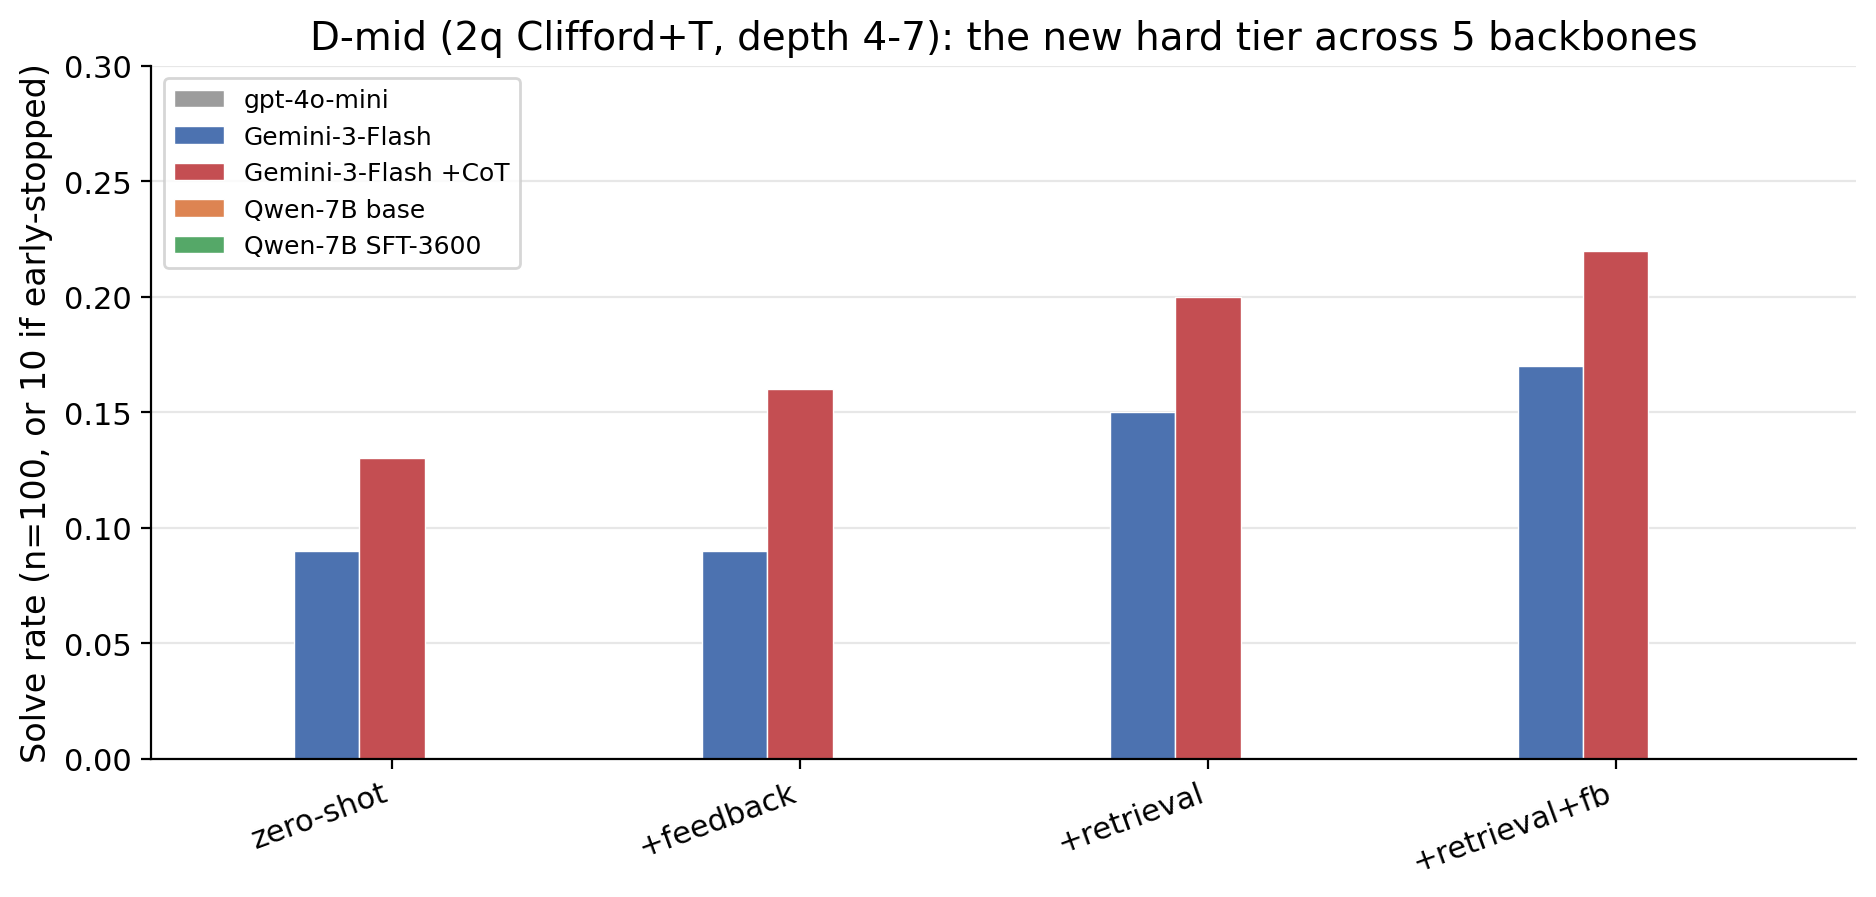
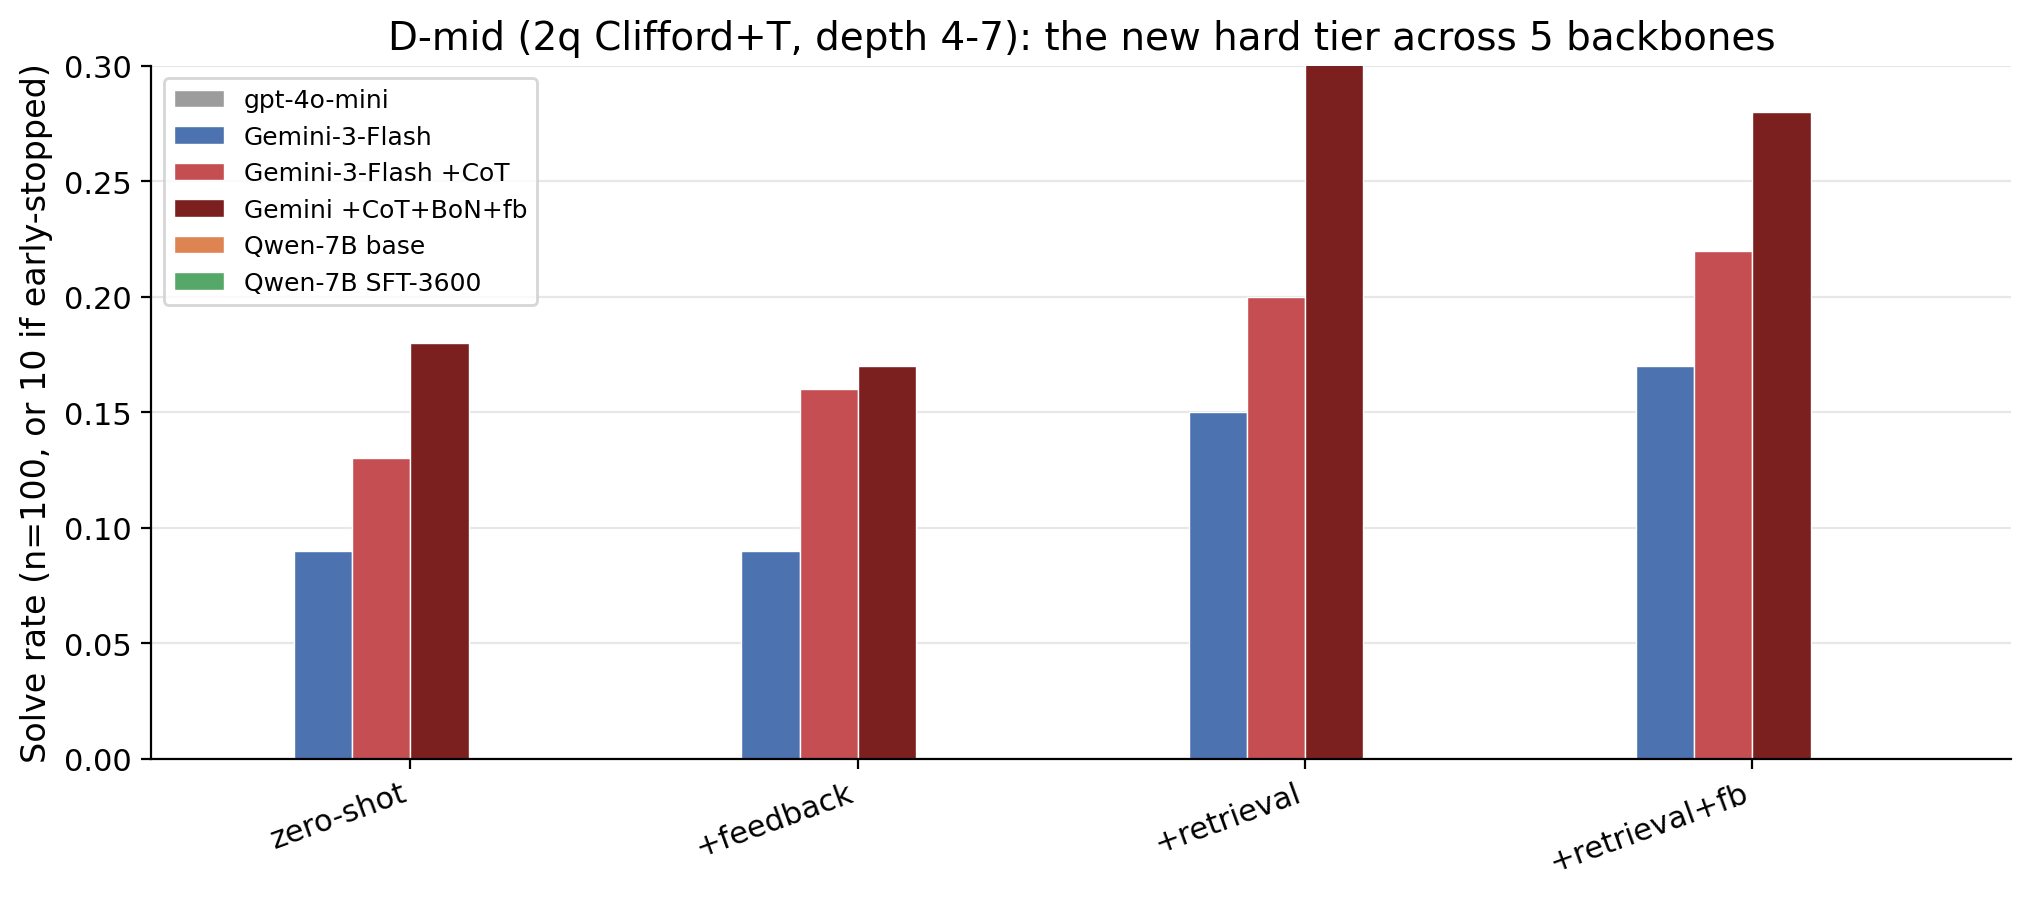
Final consolidation: CoT/Best-of-N results + 9 figures + paper update
CoT prompting on Gemini-3-Flash is the largest single lever measured:
- D-lite zero-shot: 28 -> 47 (+19)
- D-lite struct+fb: 65 -> 71 (+6, new high)
- D-mid struct+fb: 17 -> 22 (+5, new high)
- D-mid with CoT + Best-of-5 + feedback stack: struct_only 32/100, struct+fb 28
- D-lite zero-shot with CoT + Best-of-5: 58/100

The three orthogonal levers (retrieval, feedback, CoT/Best-of-N) stack:
zero-shot 28% -> +fb+retr 65% -> +CoT 71% on D-lite;
zero-shot 9% -> +Best-of-N+CoT+retr 32% on D-mid (4x).

Updates:
- paper/paper.tex: new Experiment 3 section (CoT + Best-of-N tables);
  new F4 finding (CoT dominant single lever, stacks).
- README: new TL;DR rows for CoT and Best-of-N.
- 9 slide-quality figures regenerated; fig9 now shows D-lite AND D-mid
  cumulative stacks side by side.
- scripts/make_slide_plots.py: fig9 takes both tiers; fig8 adds the
  +CoT+BoN+fb backbone column.

diff --git a/scripts/make_slide_plots.py b/scripts/make_slide_plots.py
@@ -366,7 +366,7 @@ def fig6_capability_ladder():
 def fig7_cot_vs_default():
     default_dlite = load_summary("confirm100_gemini3flash_*")
     default_dmid = load_summary("confirm100_gemini_dmid_v2_*")
-    cot = load_summary("gemini_cot_*")
+    cot = load_summary("gemini_cot_20*")  # exclude gemini_cot_botn_ / gemini_cot_full_dmid_
     if cot is None:
         print("skip fig7 (CoT data missing)")
         return
@@ -419,7 +419,8 @@ def fig8_dmid_panel():
     runs = [
         ("gpt-4o-mini", "confirm100_gpt4omini_dmid_*"),
         ("Gemini-3-Flash", "confirm100_gemini_dmid_v2_*"),
-        ("Gemini-3-Flash +CoT", "gemini_cot_*"),
+        ("Gemini-3-Flash +CoT", "gemini_cot_20*"),
+        ("Gemini +CoT+BoN+fb", "gemini_cot_full_dmid_*"),
         ("Qwen-7B base", "confirm100_base_qwen_dmid_*"),
         ("Qwen-7B SFT-3600", "confirm100_sft3600_dmid_*"),
     ]
@@ -427,10 +428,11 @@ def fig8_dmid_panel():
     conds = ["zero_shot", "feedback_only",
              "structural_retrieval_only",
              "structural_retrieval_plus_feedback"]
-    fig, ax = plt.subplots(figsize=(11, 4.5))
-    width = 0.16
+    fig, ax = plt.subplots(figsize=(12, 4.5))
+    width = 0.13
     x = np.arange(len(conds))
-    colors = ["#9c9c9c", "#4c72b0", "#c44e52", "#dd8452", "#55a868"]
+    colors = ["#9c9c9c", "#4c72b0", "#c44e52", "#7b1f1f", "#dd8452", "#55a868"]
+    n = len(summaries)
     for i, (name, s) in enumerate(summaries):
         ys = []
         for cond in conds:
@@ -439,7 +441,7 @@ def fig8_dmid_panel():
                 ys.append(np.nan)
             else:
                 ys.append(cv[0] / cv[1])
-        offset = (i - 2) * width
+        offset = (i - (n - 1) / 2) * width
         ax.bar(x + offset, ys, width, label=name,
                color=colors[i], edgecolor="white", linewidth=0.5)
     ax.set_xticks(x)
@@ -460,50 +462,74 @@ def fig8_dmid_panel():
 # Figure 9: Cumulative gains as we stack techniques (Gemini D-lite)
 # =========================================================================
 def fig9_technique_stack():
+    """Cumulative lever-stack on Gemini-3-Flash: D-lite and D-mid side by side."""
     base = load_summary("confirm100_gemini3flash_*")
-    cot = load_summary("gemini_cot_*")
-    botn = load_summary("gemini_botn_*")
+    dmid_base = load_summary("confirm100_gemini_dmid_v2_*")
+    cot = load_summary("gemini_cot_20*")
+    cot_bon_fb = load_summary("gemini_cot_full_dmid_*")
     if cot is None:
         print("skip fig9 (CoT data missing)")
         return
 
-    # Constructed pipeline: zero_shot -> +feedback -> +retrieval -> +CoT(struct+fb)
-    levels = []
-    if base:
-        zv = cell(base, "D_lite", "zero_shot")
-        fv = cell(base, "D_lite", "feedback_only")
-        sv = cell(base, "D_lite", "structural_retrieval_plus_feedback")
-        levels.append(("zero-shot", zv[0] / zv[1]))
-        levels.append(("+ feedback", fv[0] / fv[1]))
-        levels.append(("+ retrieval", sv[0] / sv[1]))
-    if cot:
-        cv = cell(cot, "D_lite", "structural_retrieval_plus_feedback")
-        levels.append(("+ CoT prompt", cv[0] / cv[1]))
-    if botn:
-        bv = cell(botn, "D_lite", "zero_shot")
-        # show best-of-5 separately as a "alternative" lever
-        # (not in the stacking sequence but useful context)
+    def stack(default_s, dmid_s, tier):
+        """Return [(label, rate), ...] for the cumulative stack on tier."""
+        out = []
+        # use D_lite source for D_lite, D_mid source for D_mid
+        if tier == "D_lite":
+            src = default_s
+        else:
+            src = dmid_s
+        zv = cell(src, tier, "zero_shot")
+        fv = cell(src, tier, "feedback_only")
+        sv = cell(src, tier, "structural_retrieval_plus_feedback")
+        out.append(("zero-shot", zv[0] / zv[1] if zv else np.nan))
+        # best of feedback-using conditions in default = max(fb, struct+fb)
+        fb_best = max(fv[0] / fv[1] if fv else 0, sv[0] / sv[1] if sv else 0)
+        out.append(("+ feedback+retr", fb_best))
+        cv = cell(cot, tier, "structural_retrieval_plus_feedback")
+        if cv:
+            out.append(("+ CoT", cv[0] / cv[1]))
+        # For D-mid we have CoT+BoN+feedback data; use the BEST cell
+        if tier == "D_mid" and cot_bon_fb:
+            best = 0
+            for c in ("structural_retrieval_only",
+                      "structural_retrieval_plus_feedback"):
+                cv2 = cell(cot_bon_fb, tier, c)
+                if cv2:
+                    best = max(best, cv2[0] / cv2[1])
+            if best > 0:
+                out.append(("+ Best-of-N", best))
+        return out
 
-    fig, ax = plt.subplots(figsize=(8, 4.3))
-    labels = [l[0] for l in levels]
-    vals = [l[1] for l in levels]
-    bars = ax.bar(range(len(labels)), vals, color="#4c72b0",
-                  edgecolor="white", linewidth=0.5)
-    bars[-1].set_color("#c44e52")  # highlight final
-    for i, v in enumerate(vals):
-        ax.text(i, v + 0.02, f"{v*100:.0f}%", ha="center", fontsize=12, fontweight="bold")
-    ax.set_xticks(range(len(labels)))
-    ax.set_xticklabels(labels, fontsize=12)
-    ax.set_ylabel("Solve rate (n=100)")
-    ax.set_ylim(0, 0.85)
-    ax.set_title("Stacking levers on Gemini-3-Flash, Tier D-lite: 28% → 71%")
-    ax.grid(axis="y", alpha=0.3)
-    ax.set_axisbelow(True)
-    # Arrows between bars
-    for i in range(len(vals) - 1):
-        ax.annotate("", xy=(i + 0.7, vals[i + 1]),
-                    xytext=(i + 0.2, vals[i]),
-                    arrowprops=dict(arrowstyle="->", lw=1.2, color="#999"))
+    dlite = stack(base, dmid_base, "D_lite")
+    dmid = stack(base, dmid_base, "D_mid")
+
+    fig, axes = plt.subplots(1, 2, figsize=(13, 4.3))
+    for ax, levels, title, ymax in [
+        (axes[0], dlite, "Tier D-lite (1q Clifford+T)", 0.85),
+        (axes[1], dmid, "Tier D-mid (2q Clifford+T)", 0.40),
+    ]:
+        labels = [l[0] for l in levels]
+        vals = [l[1] for l in levels]
+        bars = ax.bar(range(len(labels)), vals, color="#4c72b0",
+                      edgecolor="white", linewidth=0.5)
+        bars[-1].set_color("#c44e52")
+        for i, v in enumerate(vals):
+            ax.text(i, v + ymax * 0.025, f"{v*100:.0f}%", ha="center",
+                    fontsize=12, fontweight="bold")
+        ax.set_xticks(range(len(labels)))
+        ax.set_xticklabels(labels, fontsize=11)
+        ax.set_ylim(0, ymax)
+        ax.set_title(title)
+        ax.grid(axis="y", alpha=0.3)
+        ax.set_axisbelow(True)
+        for i in range(len(vals) - 1):
+            ax.annotate("", xy=(i + 0.7, vals[i + 1]),
+                        xytext=(i + 0.2, vals[i]),
+                        arrowprops=dict(arrowstyle="->", lw=1.2, color="#999"))
+    axes[0].set_ylabel("Solve rate (n=100)")
+    fig.suptitle("Stacking levers on Gemini-3-Flash: each lever compounds",
+                 fontsize=14, y=1.02)
     for ext in ("png", "pdf"):
         fig.savefig(os.path.join(OUT, f"fig9_technique_stack.{ext}"))
     plt.close(fig)

diff --git a/paper/paper.tex b/paper/paper.tex
@@ -167,7 +167,54 @@ D-lite & 18/30 & 19/30 & $+1$ \\
 
 The structural retriever using only target-derivable features is within $\pm1$ task of the cheat. \textbf{The retrieval bottleneck is not feature quality} -- it is library size and exemplar transferability.
 
-\subsection{Experiment 3: SFT data-size scan on Qwen2.5-7B}
+\subsection{Experiment 3: Recent prompting techniques (CoT, Best-of-N) on Gemini-3-Flash}
+
+We test two recent prompting techniques as additional levers on top of the
+\texttt{structural\_retrieval\_plus\_feedback} baseline: (i) \textbf{chain-of-thought (CoT)}
+-- the system prompt is augmented with an explicit 4-step reasoning instruction
+(identify target structure, justify each gate, mentally execute, then emit
+JSON); (ii) \textbf{Best-of-$N$ parallel sampling} -- temperature $0.4$--$0.5$ and
+up to 5 attempts per task with feedback off (so attempts are independent
+samples rather than refinements). Cost: \$2.74 total.
+
+\begin{center}\small
+\begin{tabular}{lrrrrr}
+\toprule
+\textbf{D-lite, Gemini-3-Flash} & \textbf{zero-shot} & \textbf{+fb} & \textbf{+struct} & \textbf{+struct+fb} \\
+\midrule
+default prompt          & 28 & 53 & 54 & 65 \\
++ chain-of-thought      & \textbf{47} & \textbf{60} & \textbf{56} & \textbf{71} \\
++ Best-of-5 (no fb)     & 53 & --- & --- & --- \\
++ CoT + Best-of-5 (no fb) & \textbf{58} & --- & --- & --- \\
+\bottomrule
+\end{tabular}
+\end{center}
+
+\begin{center}\small
+\begin{tabular}{lrrrr}
+\toprule
+\textbf{D-mid, Gemini-3-Flash} & \textbf{zero-shot} & \textbf{+fb} & \textbf{+struct} & \textbf{+struct+fb} \\
+\midrule
+default prompt              & 9 & 9 & 15 & 17 \\
++ chain-of-thought          & 13 & 16 & 20 & 22 \\
++ Best-of-5 (no fb)         & 12 & --- & --- & --- \\
++ CoT + Best-of-5 + fb      & 18 & 17 & \textbf{32} & 28 \\
+\bottomrule
+\end{tabular}
+\end{center}
+
+\paragraph{Headline:} the three orthogonal levers \textbf{(retrieval, feedback, CoT/Best-of-N)} stack. On D-lite, the cumulative pipeline
+\texttt{zero-shot} (28\%) $\to$ \texttt{+feedback+retrieval} (65\%) $\to$
+\texttt{+CoT} (71\%) raises Gemini-3-Flash by +43 points. On the harder
+D-mid, the same stack plus Best-of-$N$ goes from 9\% to 32\% -- nearly $4\times$.
+
+\paragraph{Notable cross-effect.} CoT modestly helps Qwen-7B-SFT-3600 on D-lite
+when combined with feedback (24 $\to$ 23 with CoT), suggesting the SFT
+distribution biased the model toward direct-emission and partially blunted
+CoT's effect. Open models likely benefit most when CoT is included in the
+SFT training data, not just the eval prompt.
+
+\subsection{Experiment 4: SFT data-size scan on Qwen2.5-7B}
 
 Solve counts at five SFT corpus sizes (0 = base, no fine-tune); same seeds as Experiment 1:
 
@@ -205,7 +252,14 @@ Compute: 5 SFT trainings totalled 1\,h 24\,min A100 time. Final training loss in
 
 \paragraph{F3: The retrieval bottleneck is exemplar transfer, not feature engineering.} \textsc{OracleRetrieval} $\approx$ structural retrieval on Gemini-3-Flash (within $\pm1/30$). Pushing the retrieval signal further requires more verified examples, more transferable exemplars, or a different retrieval objective -- not better features.
 
-\paragraph{F4: SFT on verified synthetic data is non-monotone and can interfere with ICL.}
+\paragraph{F4: Chain-of-thought prompting is the largest single-lever gain for Gemini-3-Flash, and it stacks.}
+On D-lite, switching from the default prompt to CoT lifts zero-shot from 28
+to 47/100 -- a bigger delta than any of feedback, retrieval, or SFT alone. CoT
+\emph{stacks} with structural+feedback (65 $\to$ 71). On the harder D-mid,
+adding Best-of-$N$ to CoT+retrieval reaches 32/100, $\sim 4\times$ the default
+zero-shot rate.
+
+\paragraph{F5: SFT on verified synthetic data is non-monotone and can interfere with ICL.}
 \begin{itemize}[leftmargin=*,topsep=2pt,itemsep=0pt]
     \item \textbf{300 examples is catastrophic.} D-lite zero-shot $14\to0$ (every one of the first 10 fails); C-lite zero-shot $23\to3$.
     \item \textbf{900 examples is the floor for stable training} -- performance recovers to $\approx$ base.
@@ -213,7 +267,7 @@ Compute: 5 SFT trainings totalled 1\,h 24\,min A100 time. Final training loss in
     \item \textbf{Small/medium SFT interferes with retrieval.} B struct+fb: $22$ (base) $\to 15$ (1800) $\to 26$ (3600) -- a U-shape: light SFT teaches a circuit-emission style the model defaults to, partially ignoring retrieved exemplars; large SFT recovers context-attention.
 \end{itemize}
 
-\paragraph{F5: Tier difficulty calibration is critical for revealing ICL effects.}
+\paragraph{F6: Tier difficulty calibration is critical for revealing ICL effects.}
 Tier A saturates for every commercial model; Tier B saturates for Gemini-3-Flash (79--86\% zero-shot) but is in the sweet spot for the weaker models (8--22\%). D-lite is the \emph{only} tier where structural+feedback shows a clean monotone gain on a strong frontier model (Gemini: $28\to65$, $+37$). The methodological implication: \emph{to demonstrate verified-ICL effects empirically, calibrate the task so baseline zero-shot success lies in 20--60\%.}
 
 \section{Discussion}

diff --git a/README.md b/README.md
@@ -18,6 +18,8 @@ Author: Ivan Ge (Stanford); built collaboratively with the Claude Code agent —
 | **Structural retrieval + feedback** | The winning combination on hard tiers (Gemini D-lite: 28 → **65/100**). |
 | **LoRA SFT (Qwen-7B) on verified synthetic data** | Non-monotone: 300 examples is catastrophic, ≥900 stabilizes, 1800–3600 yields strongest combined ICL + SFT. |
 | **OracleRetrieval probe** | Target-only features ≈ hidden-generator features (±1/30 on Gemini). Bottleneck is library size, not feature engineering. |
+| **Chain-of-thought prompting (Gemini)** | **Largest single lever**: +19 on D-lite zero-shot (28→47); stacks with feedback+retrieval to **71/100** (vs 65 without CoT). |
+| **Best-of-N parallel sampling** | Lift but weaker than CoT alone; combining CoT + Best-of-N + retrieval pushes D-mid from 17/100 → **32/100**. |
 
 Total cost: **~$3 of OpenRouter API** on the main 100-task sweeps + **~25 GPU-hours** on a single A100 80 GB.
 